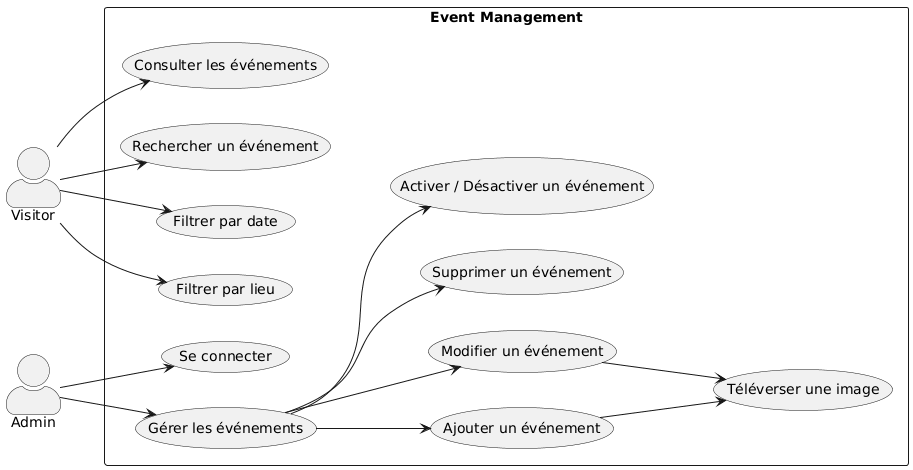
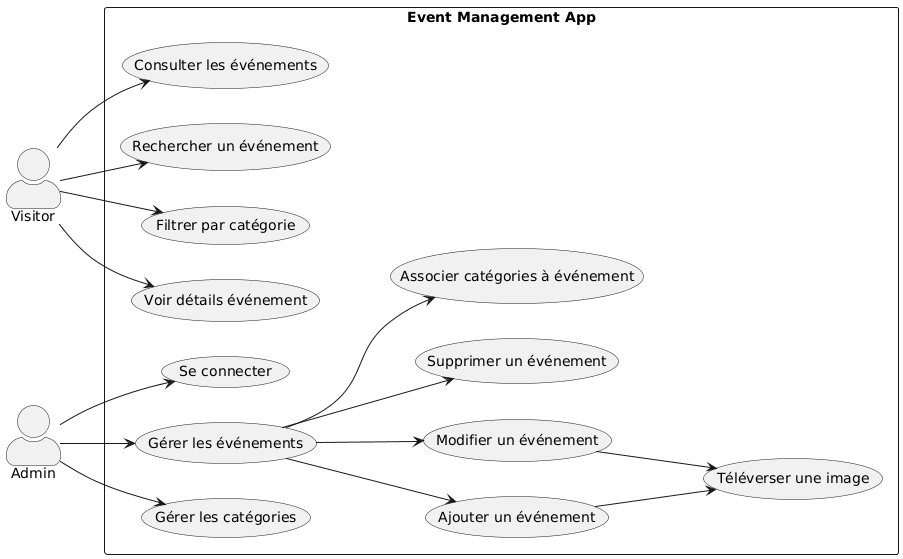
conception done

Changed region(s): [[0.0, 0.0, 1.0, 1.0], [0.4651, 0.3277, 0.4961, 0.3574]]

diff --git a/README.md b/README.md
@@ -37,7 +37,7 @@ style: |
 ---
 
 # **Présentation Projet-technique**
-### Event Management App (Events, Locations) <br>
+### Event Management App (Events, Categories) <br>
 **Réalisé par :** AZIZ Soufiane <br>
 **Encadré par :** M. ESSARRAJ Fouad
 
@@ -56,7 +56,7 @@ style: |
 ### Développer l'Application Event Management
 * **Partie Publique :**  
   Interface permettant aux visiteurs de consulter les événements.  
-  Fonctionnalités : Recherche par titre, filtre par lieu et date, pagination (10 éléments/page).
+  Fonctionnalités : Recherche par titre, filtre par Categories, pagination (10 éléments/page).
 
 * **Partie Admin :**  
   Tableau de bord sécurisé pour la gestion des événements.  
@@ -111,13 +111,13 @@ style: |
 
 ## Analyse: Analyse Fonctionnelle
 
-![w:900 Use Case Diagram](./images/useCase.png)
+![w:700 Use Case Diagram](./images/useCase.png)
 
 ---
 
 ## Conception
 
-![w:450 Class Diagram](./images/ClassDiagram.png)
+![w:200 Class Diagram](./images/ClassDiagram.png)
 
 ---
 
